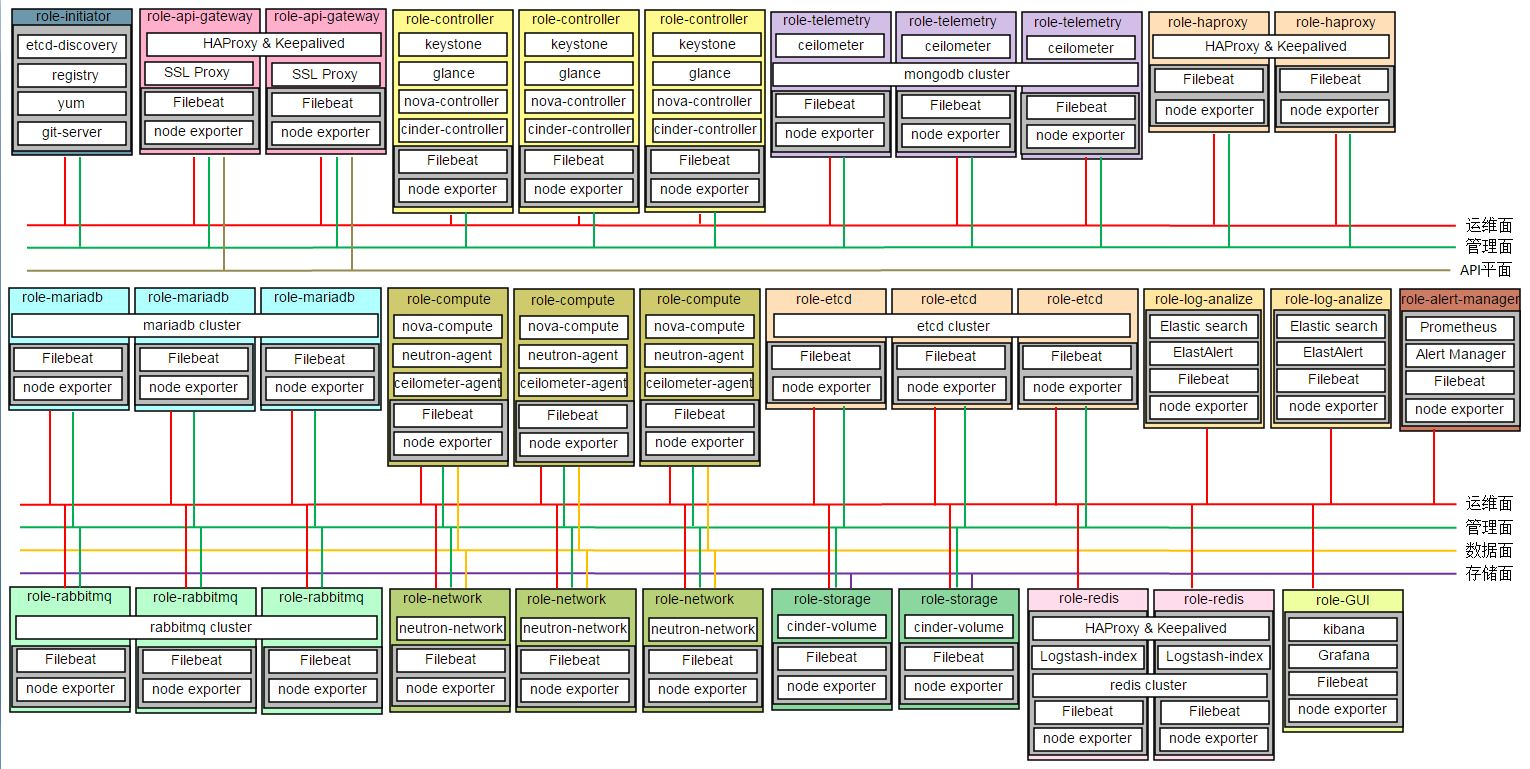
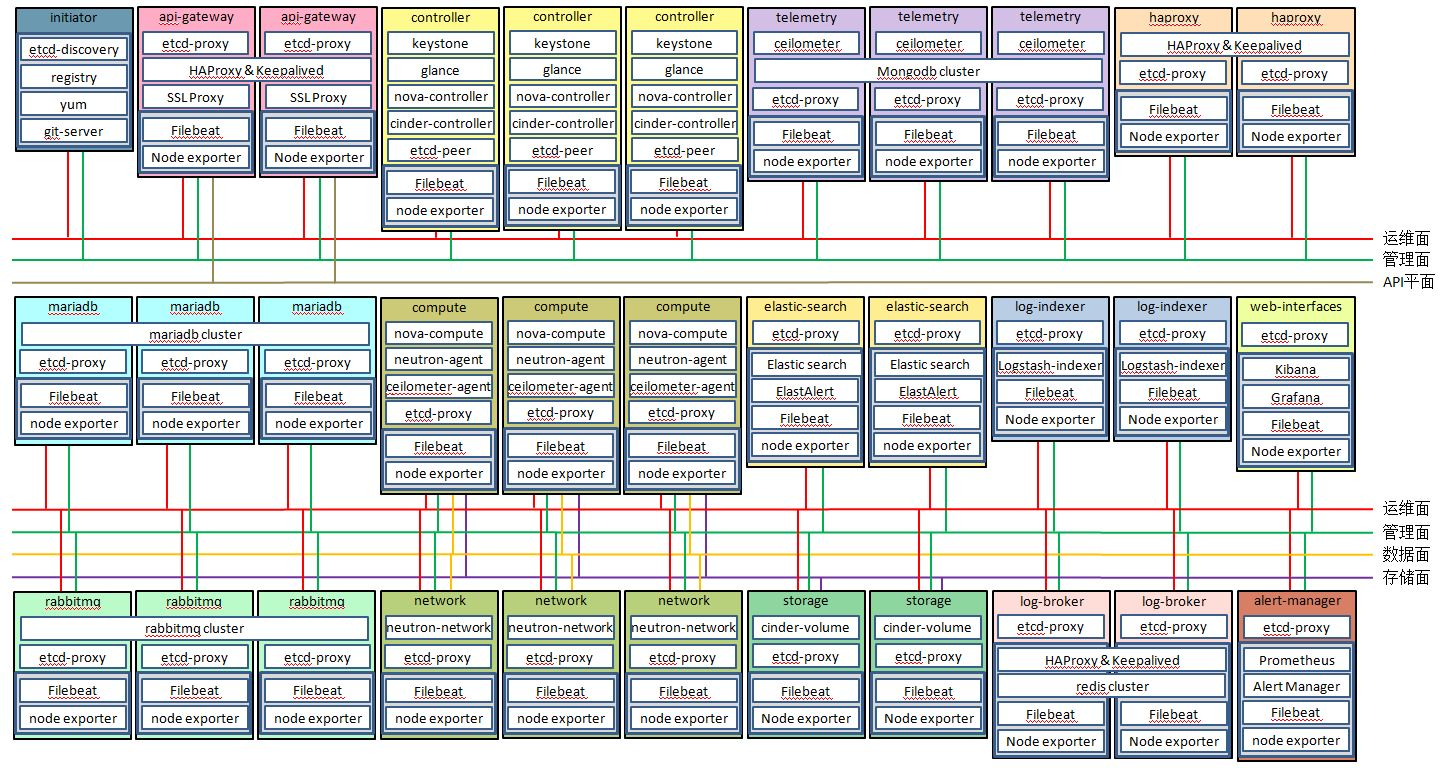
modify doc/role_service_map.jpg and README.md

diff --git a/README.md b/README.md
@@ -3,14 +3,21 @@ The relation of roles and services is as follow:
 ![role_service_map](doc/role_service_map.jpg)
 
 ### Roles 
- - Database Master/Slave(Mysql)
- - Message Queue Master/Slave(Rabbitmq)
- - Mongodb Master/Slave
- - Memcached
- - OpenStack Controller (Nova, Cinder, Keystone, Glance, Ceilometer)
- - OpenStack Compute Node
- - OpenStack Network Node
- - OpenStack Cinder Node
+ - Initiator:init container of system
+ - Etcd:used to storage configurations,discover service,check health status and cluster view
+ - API-Gateway:manage requests from outside
+ - Controller:role of controller,containing keystone,glance,nova-api,nova-scheduler,cinder-api,cinder-scheduler,etcd-peer and so on
+ - Network:role of network,containing neutron
+ - Storage:role of storage,containing cinder-volume
+ - Compute:role of compute,containing nova-compute,kinds of neutron agents and ceilometer agents
+ - Telemetry:role of telemetry,containing ceilometer and mongodb
+ - HAProxy:common HAProxy for other roles except api-gateway and log-broker
+ - Rabbitmq:Message Mueue Cluster
+ - Mariadb:Database Cluster
+ - Elastic-search:log search and analytics engine
+ - Log-indexer:Logstash Cluster
+ - Log-broker:Redis Cluster
+ - Web-interfaces:GUI of log and alert
 
 ### Prerequisites
  - A git service
@@ -22,17 +29,3 @@ The relation of roles and services is as follow:
  - Cluster peers will typically reuse 3 OpenStack Controller nodes;
  - Other nodes will use etcd client api to periodically update their status in config db;
 
-### Role Deployment
- - Admin is allowed to define the role for a node in config db; 
- - When a node is advertising itself in the cluster, it will pull its config and deloy them on its own;
-
-### Services Design
- - Etcd service, typically reuse 3 OpenStack Controller nodes as peers;
- - Nginx LB service, acting as API load balancer in front of OpenStack controller cluster;
- - Controller service, providing Nova, Cinder, Glance, Keystone, Ceilometer API services;
- - Database service, a failover mysql cluster, see https://dev.mysql.com/doc/refman/5.7/en/mysql-cluster-replication-failover.html;
- - Rabbitmq service, a failover rabbitmq cluster, see https://www.rabbitmq.com/clustering.html;
- - Memcached service, a memcahced cluster;
- - Mongodb service, a failover mongodb cluster, see https://docs.mongodb.com/manual/replication/;
- - Compute service, a set of compute nodes providing VMs;
- - Network service, providing vpc, fip, vrouter services;
